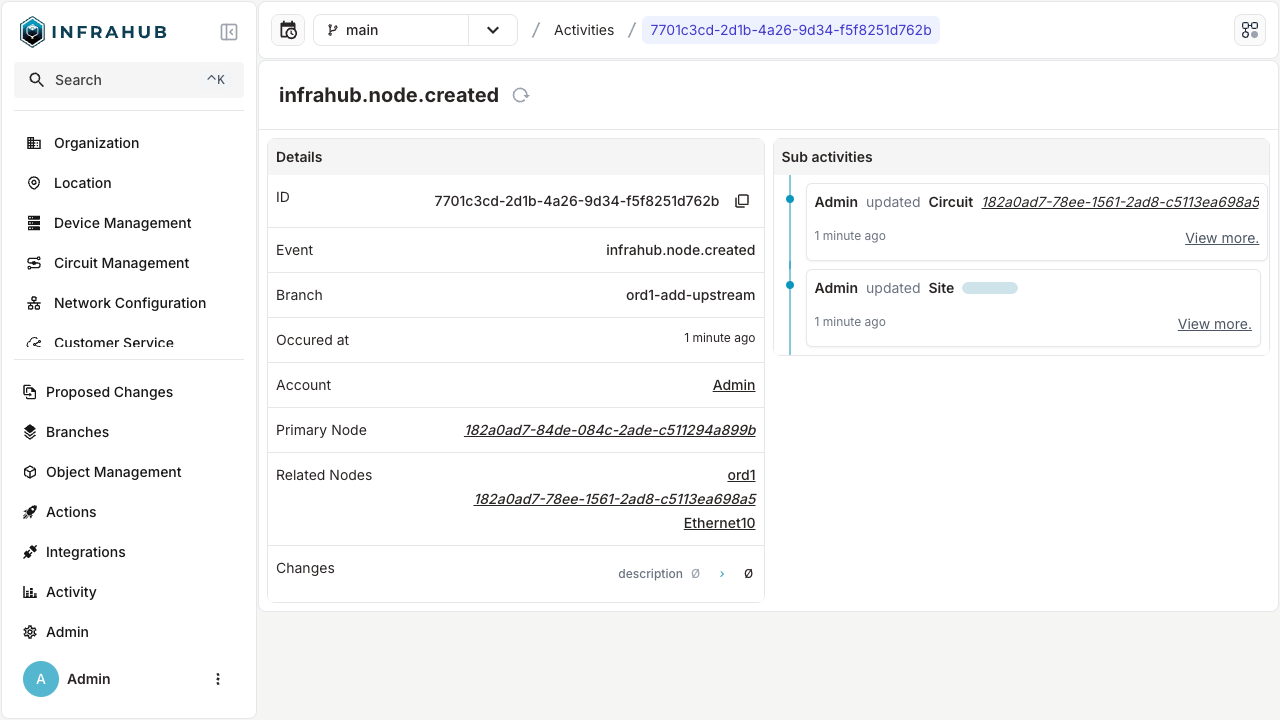
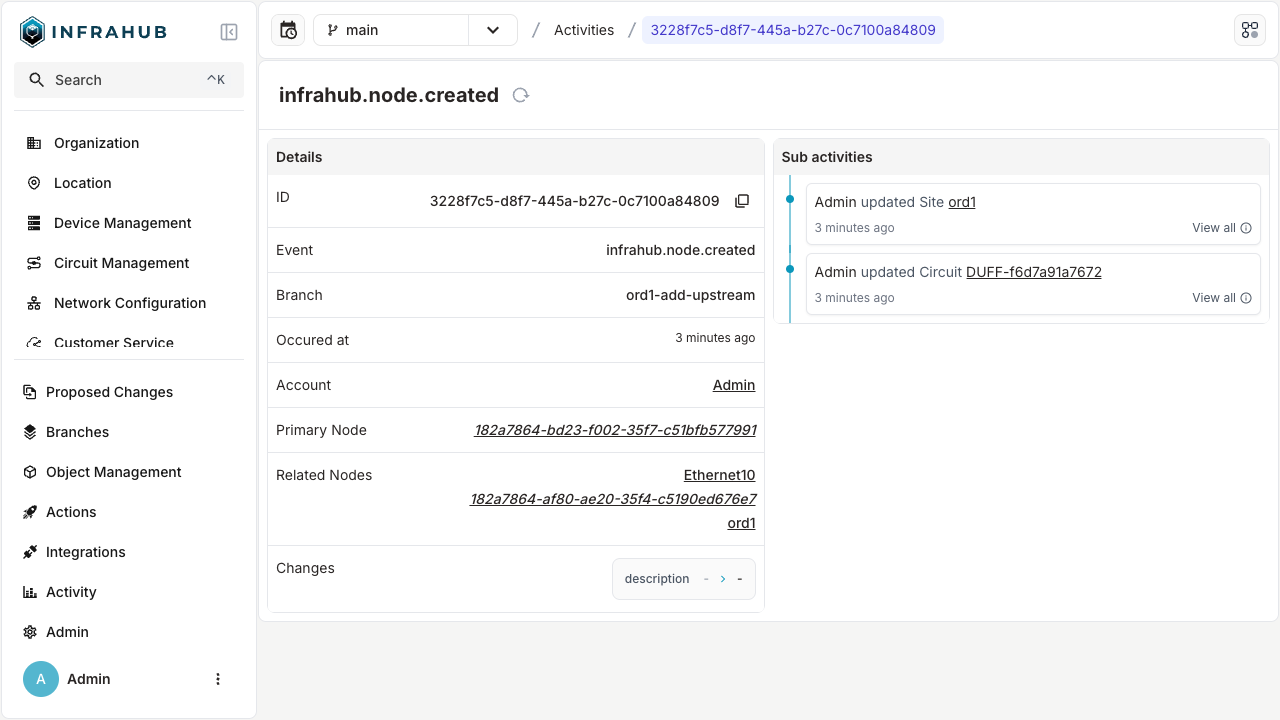
rework/cleanup after merge origin/release-1.2

diff --git a/frontend/app/tests/e2e/activity-log/global-activity-log.spec.ts b/frontend/app/tests/e2e/activity-log/global-activity-log.spec.ts
@@ -49,7 +49,6 @@ test.describe("Global Activities - List view and filter usage", () => {
       const activitiesHeading = page.getByRole("heading", { name: "Activities" });
       await expect(activitiesHeading).toBeVisible();
     });
-
     await test.step("Choose filters", async () => {
       await page.getByRole("button", { name: "Has Children" }).click();
       await page.getByText("True").click();
@@ -65,7 +64,7 @@ test.describe("Global Activities - List view and filter usage", () => {
       await viewMoreLink.click();
 
       // Check that at least one "View more." button is present in the details page
-      await expect(page.locator("#root")).toContainText("View more.");
+      await expect(page.locator("#root")).toContainText("View all");
       await saveScreenshotForDocs(
         page,
         "topics/activity-logs/activity_log_global_details_children"

diff --git a/frontend/app/tests/e2e/guide/resource_manager_guide.spec.ts b/frontend/app/tests/e2e/guide/resource_manager_guide.spec.ts
@@ -32,7 +32,7 @@ test.describe("Resource Managers guide", () => {
         .getByTestId("side-panel-container")
         .locator("div")
         .filter({ hasText: "Resources *" })
-        .nth(1)
+        .first()
         .click();
       await page.locator("form").getByPlaceholder("Filter...").fill("10.100.0");
       await page.getByRole("option", { name: "10.100.0.0/" }).click();
